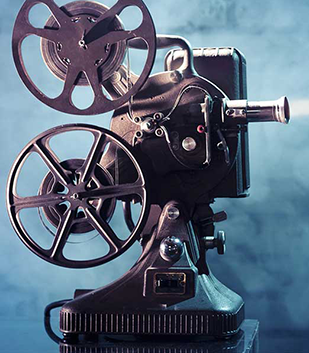
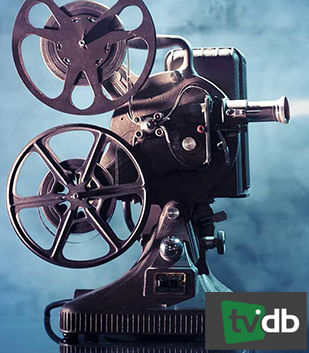
updates

Changed region(s): [[0.6408, 0.8102, 1.0, 0.9972]]

diff --git a/docs/index.html b/docs/index.html
@@ -40,7 +40,7 @@
                 <a class="nav-link" href="index.html">Home</a>
               </li>
               <li class="nav-item">
-                <a class="nav-link" href="about-webtools-ng.html">About</a>
+                <a class="nav-link" href="about-webtools-ng.html">About WT-NG</a>
               </li>
               <li class="nav-item">
                 <a class="nav-link" href="menu.html">Main Menu</a>
@@ -120,7 +120,7 @@
           <div class="col-md-4">
             <div><img class="services_img" alt="Image 1" src="images/image-01.png"></div>
             <div class="btn_main">
-              <a href="https://www.amazon.com/Movies-DVD-TV/s?rh=n%3A2649512011%2Cp_n_format_browse-bin%3A2650304011" target="_blank">Collect</a>
+              <a href="https://www.themoviedb.org/?language=en-US" target="_blank">Collect</a>
             </div>
           </div>
           <div class="col-md-4">
@@ -132,7 +132,7 @@
           <div class="col-md-4">
             <div><img class="services_img" alt="Image 3" src="images/image-03.png"></div>
             <div class="btn_main">
-              <a href="https://www.imdb.com/chart/top/" target="_blank">Enjoy</a>
+              <a href="https://thetvdb.com/" target="_blank">Enjoy</a>
             </div>
           </div>
         </div>

diff --git a/docs/js/wt-ng/headerandfooter.js b/docs/js/wt-ng/headerandfooter.js
@@ -1,7 +1,7 @@
 class MyHeader extends HTMLElement {
   connectedCallback() {
     this.innerHTML = `
-            <div class="header_section">
+   <div class="header_section">
             <div class="header_main">
                <div class="mobile_menu">
                   <nav class="navbar navbar-expand-lg navbar-light bg-light">
